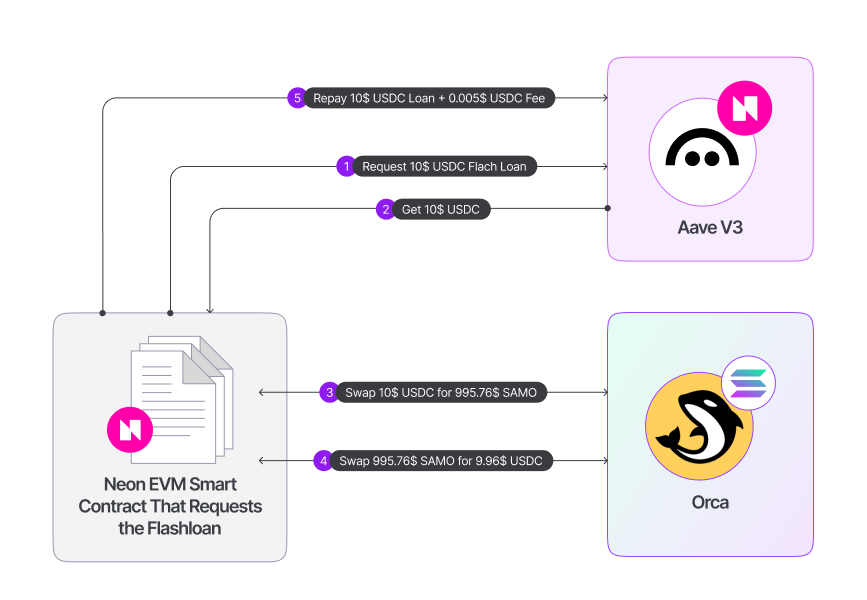
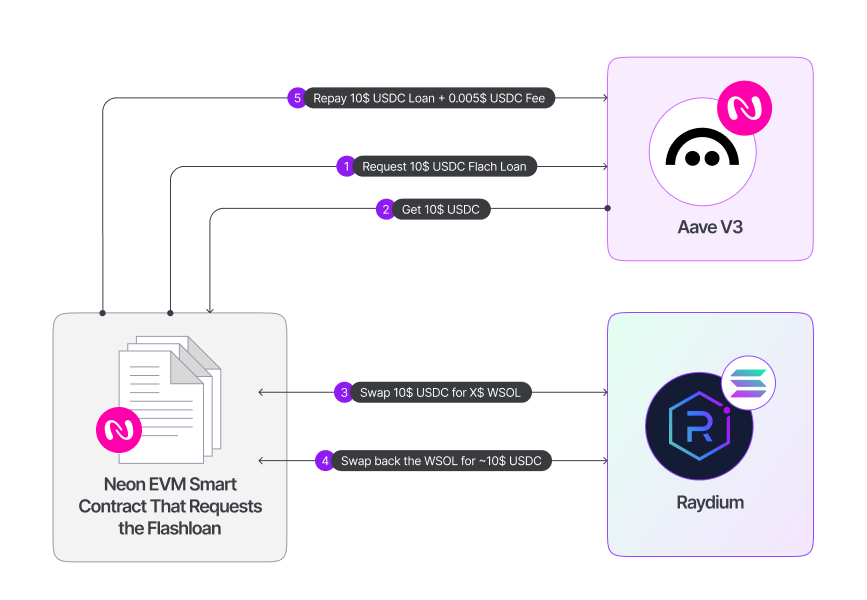
replace Orca off-chain request with Raydium composability library

diff --git a/test/AaveFlashLoan/AaveFlashLoan.js b/test/AaveFlashLoan/AaveFlashLoan.js
@@ -1,21 +1,9 @@
 import { network } from "hardhat"
 import web3 from "@solana/web3.js"
-import {
-    getAssociatedTokenAddress
-} from "@solana/spl-token"
-import { AnchorProvider } from "@coral-xyz/anchor"
-import { WhirlpoolContext, buildWhirlpoolClient, ORCA_WHIRLPOOL_PROGRAM_ID, PDAUtil, swapQuoteByInputToken, IGNORE_CACHE, WhirlpoolIx, SwapUtils } from  "@orca-so/whirlpools-sdk"
-import { DecimalUtil, Percentage } from "@orca-so/common-sdk"
-import { Decimal } from "decimal.js"
 import config  from "../config"
 import createATA from "../helpers/CreateATAThroughSolanaWeb3"
-import { getSecrets } from "../../neon-secrets.js";
+import { getSecrets } from "../../neon-secrets.js"
 import "dotenv/config"
-
-if (process.env.ANCHOR_PROVIDER_URL != config.SOLANA_NODE || process.env.ANCHOR_WALLET == undefined) {
-    console.warn('This script uses the @coral-xyz/anchor library which requires the variables ANCHOR_PROVIDER_URL and ANCHOR_WALLET to be set. Please create id.json in the root of the hardhat project with your Solana\'s private key and run the following command in the terminal in order to proceed with the script execution: \n\n export ANCHOR_PROVIDER_URL='+config.SOLANA_NODE+' && export ANCHOR_WALLET=./id.json');
-    throw new Error("Missing ANCHOR_PROVIDER_URL and ANCHOR_WALLET environment variables")
-}
 
 let ethers;
 let owner;
@@ -23,29 +11,22 @@ let solanaUser;
 const AaveFlashLoanAddress = config.DATA.EVM.ADDRESSES.AAVE.AaveFlashLoanTest;
 let AaveFlashLoan;
 let USDC;
-const RECEIPTS_COUNT = 1;
 let contractPublicKey;
-let neon_getEvmParams;
+const RECEIPTS_COUNT = 1;
 
 describe('Test init', async function () {
     before(async function() {
         const { wallets } = await getSecrets()
-        owner = wallets.owner;
+        owner = wallets.owner
         solanaUser = wallets.solanaUser1
         ethers = (await network.connect()).ethers
+
         if (await ethers.provider.getBalance(owner.address) == 0) {
             await config.utils.airdropNEON(owner.address);
         }
 
         const AaveFlashLoanFactory = await ethers.getContractFactory('contracts/AaveFlashLoan/AaveFlashLoan.sol:AaveFlashLoan', owner);
         USDC = await ethers.getContractAt('contracts/interfaces/IERC20ForSpl.sol:IERC20ForSpl', config.DATA.EVM.ADDRESSES.devUSDC, owner);
-
-        const neon_getEvmParamsRequest = await fetch("https://devnet.neonevm.org", {
-            method: 'POST',
-            body: JSON.stringify({"method":"neon_getEvmParams","params":[],"id":1,"jsonrpc":"2.0"}),
-            headers: { 'Content-Type': 'application/json' }
-        });
-        neon_getEvmParams = await neon_getEvmParamsRequest.json();
 
         if (ethers.isAddress(AaveFlashLoanAddress)) {
             console.log('\AaveFlashLoan used at', "\x1b[32m", AaveFlashLoanAddress, "\x1b[30m", '\n');
@@ -56,7 +37,8 @@ describe('Test init', async function () {
                 [
                     config.DATA.EVM.ADDRESSES.AAVE.ADDRESS_PROVIDER
                 ],
-                owner);
+                owner
+            );
             await AaveFlashLoan.waitForDeployment();
             console.log('\AaveFlashLoan deployed at', "\x1b[32m", AaveFlashLoan.target, "\x1b[30m", '\n');
         }
@@ -65,140 +47,33 @@ describe('Test init', async function () {
         contractPublicKey = ethers.encodeBase58(contractPublicKeyInBytes);
         console.log(contractPublicKey, 'contractPublicKey');
 
-        console.log(ethers.encodeBase58(await USDC.tokenMint()), 'tokenMint');
-
         await createATA(solanaUser, [new web3.PublicKey(contractPublicKey)]);
     });
 
-    describe('ERC20ForSPL tests', function() {
+    describe('Tests', function() {
         it('Validate Aave V3 flash loan with composability', async function () {
             let tx;
             // dummy transfer to the contract so it could be able to repay the flashloan fee
             if (await USDC.balanceOf(AaveFlashLoan.target) == 0) {
                 console.log('Transferring some USDC to the contract so it could be able to repay the flashloan fee.');
-                tx = await USDC.transfer(AaveFlashLoan.target, '1000000');
+                tx = await USDC.transfer(AaveFlashLoan.target, 1000000);
                 await tx.wait(RECEIPTS_COUNT); 
+
+                console.log(await USDC.balanceOf(AaveFlashLoan.target), 'balanceOf');
             }
-
-            const flashLoanRequestAmount = '10000000'; // 10 USDC
-            const orcaSwapInstructions = await buildOrcaSwap(flashLoanRequestAmount);
-            console.log(orcaSwapInstructions, 'orcaSwapInstructions');
-
-            console.log(await USDC.balanceOf(AaveFlashLoan.target), 'balanceOf');
 
             tx = await AaveFlashLoan.flashLoanSimple(
                 config.DATA.EVM.ADDRESSES.devUSDC,
-                flashLoanRequestAmount,
-                config.utils.prepareInstruction(ethers, orcaSwapInstructions[0].instructions[0]),
-                config.utils.prepareInstruction(ethers, orcaSwapInstructions[1].instructions[0])
+                10000000, // 10 USDC
+                config.utils.publicKeyToBytes32(ethers, config.DATA.SVM.ADDRESSES.devUSDC_WSOL_Raydium_Pool), // poolId
+                100 // 0.01% slippage
             );
+            console.log(tx, 'tx');
             await tx.wait(RECEIPTS_COUNT);
 
             console.log('\n\n\n');
-            console.log(tx.hash, 'Transaction hash');
             console.log(await USDC.balanceOf(AaveFlashLoan.target), 'Contract USDC balanceOf');
             console.log(await AaveFlashLoan.lastLoan(), 'lastLoan');
-            console.log(await AaveFlashLoan.lastLoanFee(), 'lastLoanFee');
         });
     });
 });
-
-async function buildOrcaSwap(amountIn) {
-    amountIn = new Decimal(amountIn / 10 ** 6);
-
-    const provider = AnchorProvider.env();
-    const ctx = WhirlpoolContext.withProvider(provider, ORCA_WHIRLPOOL_PROGRAM_ID);
-    const client = buildWhirlpoolClient(ctx);
-    
-    const TokenA = {mint: new web3.PublicKey("BRjpCHtyQLNCo8gqRUr8jtdAj5AjPYQaoqbvcZiHok1k"), decimals: 6}; // devUSDC
-    const TokenB = {mint: new web3.PublicKey("Jd4M8bfJG3sAkd82RsGWyEXoaBXQP7njFzBwEaCTuDa"), decimals: 9}; // devSAMO
-    const tickSpacing = 64;
-
-    const whirlpool_pubkey = PDAUtil.getWhirlpool(
-        ORCA_WHIRLPOOL_PROGRAM_ID,
-        new web3.PublicKey(config.DATA.SVM.ADDRESSES.WHIRLPOOLS_CONFIG),
-        TokenB.mint,
-        TokenA.mint,
-        tickSpacing // tick spacing
-    ).publicKey;
-    const whirlpool = await client.getPool(whirlpool_pubkey);
-    
-    const ataContractTokenA = await getAssociatedTokenAddress(
-        TokenA.mint,
-        new web3.PublicKey(contractPublicKey),
-        true
-    );
-
-    const ataContractTokenB = await getAssociatedTokenAddress(
-        TokenB.mint,
-        new web3.PublicKey(contractPublicKey),
-        true
-    );
-
-    const contractPDAdevUSDC = config.utils.calculatePdaAccount(
-        'ContractData',
-        USDC.target,
-        AaveFlashLoan.target,
-        new web3.PublicKey(neon_getEvmParams.result.neonEvmProgramId)
-    )[0];
-    console.log(contractPDAdevUSDC, 'contractPDAdevUSDC');
-
-    // Obtain swap estimation (run simulation)
-    const quote1 = await swapQuoteByInputToken(
-        whirlpool,
-        TokenA.mint,
-        DecimalUtil.toBN(amountIn, TokenA.decimals), // Input Token Mint amount
-        Percentage.fromFraction(0, 1000), // 0 slippage
-        ctx.program.programId,
-        ctx.fetcher,
-        IGNORE_CACHE
-    );
-
-    // Output the estimation
-    console.log("estimatedAmountIn:", DecimalUtil.fromBN(quote1.estimatedAmountIn, TokenA.decimals).toString(), "TokenA");
-    console.log("estimatedAmountOut:", DecimalUtil.fromBN(quote1.estimatedAmountOut, TokenB.decimals).toString(), "TokenB");
-    console.log("otherAmountThreshold:", DecimalUtil.fromBN(quote1.otherAmountThreshold, TokenB.decimals).toString(), "TokenB");
-
-    let swaps = [];
-    swaps[0] = WhirlpoolIx.swapIx(
-        ctx.program,
-        SwapUtils.getSwapParamsFromQuote(
-            quote1,
-            ctx,
-            whirlpool,
-            ataContractTokenA,
-            ataContractTokenB,
-            new web3.PublicKey(contractPublicKey)
-        )
-    );
-
-    // Obtain swap estimation (run simulation)
-    const quote2 = await swapQuoteByInputToken(
-        whirlpool,
-        TokenB.mint,
-        DecimalUtil.toBN(new Decimal(DecimalUtil.fromBN(quote1.estimatedAmountOut, TokenB.decimals).toString()), TokenB.decimals), // Input Token Mint amount
-        Percentage.fromFraction(5, 1000), // Acceptable slippage (5/1000 = 5%)
-        ctx.program.programId,
-        ctx.fetcher,
-        IGNORE_CACHE
-    );
-
-    // Output the estimation
-    console.log("estimatedAmountIn:", DecimalUtil.fromBN(quote2.estimatedAmountIn, TokenB.decimals).toString(), "TokenA");
-    console.log("estimatedAmountOut:", DecimalUtil.fromBN(quote2.estimatedAmountOut, TokenA.decimals).toString(), "TokenB");
-    console.log("otherAmountThreshold:", DecimalUtil.fromBN(quote2.otherAmountThreshold, TokenA.decimals).toString(), "TokenB");
-
-    swaps[1] = WhirlpoolIx.swapIx(
-        ctx.program,
-        SwapUtils.getSwapParamsFromQuote(
-            quote2,
-            ctx,
-            whirlpool,
-            ataContractTokenB,
-            contractPDAdevUSDC,
-            new web3.PublicKey(contractPublicKey)
-        )
-    );
-
-    return swaps;
-}

diff --git a/test/config.js b/test/config.js
@@ -7,12 +7,12 @@ const config = {
         EVM: {
             ADDRESSES: {
                 MemeLaunchpad: {
-                    MemeLaunchpadTest: '',
+                    MemeLaunchpadTest: '0x6A97C70e47Ab5d8B524C48B0FfFc570E51489ddA',
                     BondingCurve: '0x0Fc6Ec7F9F06bd733913C1Fcd10BFc959a1F88DC'
                 },
                 ERC20ForSplFactory: '0xF6b17787154C418d5773Ea22Afc87A95CAA3e957',
                 AAVE: {
-                    AaveFlashLoanTest: '0x90cF15326EE0Ecd1849685F28Ac70BEcA10248E0',
+                    AaveFlashLoanTest: '0x6A97C70e47Ab5d8B524C48B0FfFc570E51489ddA',
                     AAVE_POOL: '0x9eA85823b7B736189e663ddef0FEE250EF0d23E1', // Pool-Proxy-Aave.json
                     ADDRESS_PROVIDER: '0x3792F5eD078EEbE34419627E91D648e8Ac3C56e5'
                 },
@@ -22,9 +22,10 @@ const config = {
         },
         SVM: {
             ADDRESSES: {
-                WHIRLPOOLS_CONFIG: "FcrweFY1G9HJAHG5inkGB6pKg1HZ6x9UC2WioAfWrGkR",
-                devSAMO: "Jd4M8bfJG3sAkd82RsGWyEXoaBXQP7njFzBwEaCTuDa",
-                devUSDC: "BRjpCHtyQLNCo8gqRUr8jtdAj5AjPYQaoqbvcZiHok1k"
+                devUSDC_WSOL_Raydium_Pool: "5EqqFbCMGWuyHXQKx9XmfM9ygxFox5KfEmeNG8etdSfJ",
+                devUSDC: "BRjpCHtyQLNCo8gqRUr8jtdAj5AjPYQaoqbvcZiHok1k",
+                WSOL: "So11111111111111111111111111111111111111112",
+                USDC: "F4DgNXqiT3zUQA7dhqN5VzEPkRcd8vtqFwpJSwEEvnz5"
             }
         }
     },

diff --git a/test/helpers/CreateATAThroughSolanaWeb3.js b/test/helpers/CreateATAThroughSolanaWeb3.js
@@ -12,7 +12,7 @@ import "dotenv/config"
 const connection = new web3.Connection(config.SOLANA_NODE, "processed");
 
 const defaultTokenMintsArray = [
-    config.DATA.SVM.ADDRESSES.devSAMO,
+    config.DATA.SVM.ADDRESSES.WSOL,
     config.DATA.SVM.ADDRESSES.devUSDC
 ];
 let atasToBeCreated = '';

diff --git a/contracts/AaveFlashLoan/README.md b/contracts/AaveFlashLoan/README.md
@@ -1,8 +1,10 @@
 # POC - Aave V3 flash loan with composability requests to Solana
 
-The following POC aims to validate that it's possible to request a flash loan from DeFi protocol on Neon EVM _( an Aave V3 fork )_ and to use the loan in the context of Solana. In this example we're requesting a loan of $USDC tokens and swapping them against $SAMO tokens _( both tokens are arbitrary tokens supported by Orca program on Solana )_. At the end of the 2nd swap request to Orca we're repaying back the flash loan and the fee back to the Aave V3 fork. The requesting from Neon EVM to Solana is possible through a composability feature that Neon EVM supports and more specifically Solidity requests to a custom precompile `0xFF00000000000000000000000000000000000006`. More details about the feature [here](https://neonevm.org/docs/composability/common_solana_terminology). Data about the POC:
-* The contract deployed and verified at [https://neon-devnet.blockscout.com/address/0x1f464349eEAC5DbAD27c38cCe222d4D28bAc0824](https://neon-devnet.blockscout.com/address/0x1f464349eEAC5DbAD27c38cCe222d4D28bAc0824)
-* Sample transaction - [https://neon-devnet.blockscout.com/tx/0x5d4a2c7aefebd85f7fc2c726f81496953655238125b7efc535c9efa6189ce8c0](https://neon-devnet.blockscout.com/tx/0x5d4a2c7aefebd85f7fc2c726f81496953655238125b7efc535c9efa6189ce8c0)
+The following POC aims to validate that it's possible to request a flash loan from DeFi protocol on Neon EVM _( an Aave V3 fork )_ and to use the loan in the context of Solana by requesting the Raydium CPMM Program. In this example we're requesting a loan of $USDC tokens and swapping them against WSOL tokens. At the end of the 2nd swap request to Raydium we're repaying back the flash loan and the fee back to Aave. The requesting from Neon EVM to Solana is possible through a composability feature that Neon EVM supports and more specifically Solidity requests to a custom precompile `0xFF00000000000000000000000000000000000006`. More details about the feature [here](https://neonevm.org/docs/composability/common_solana_terminology). Info about the POC:
+* The contract deployed and verified at [https://neon-devnet.blockscout.com/address/0x6A97C70e47Ab5d8B524C48B0FfFc570E51489ddA](https://neon-devnet.blockscout.com/address/0x6A97C70e47Ab5d8B524C48B0FfFc570E51489ddA)
+* Sample transaction - [https://neon-devnet.blockscout.com/tx/0xd78d1882413a6a44f5693144b99506d1e58fd1c4b1da9da440e5f700e7275d4d](https://neon-devnet.blockscout.com/tx/0xd78d1882413a6a44f5693144b99506d1e58fd1c4b1da9da440e5f700e7275d4d)
+
+This POC is built with the npmjs package [https://www.npmjs.com/package/@neonevm/call-solana](https://www.npmjs.com/package/@neonevm/call-solana) which provide helpers and instruction builders for different variaty of program on Solana including the Raydium's CPMM Program.
 
 ### Run the POC
 * ```npx hardhat test mocha test/AaveFlashLoan/AaveFlashLoan.js --network neondevnet```
